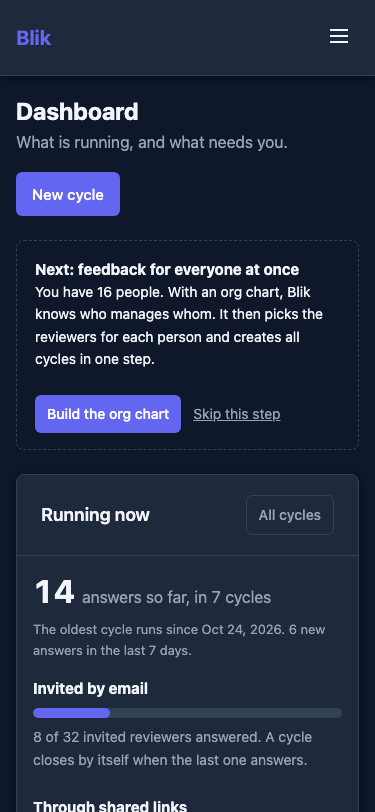
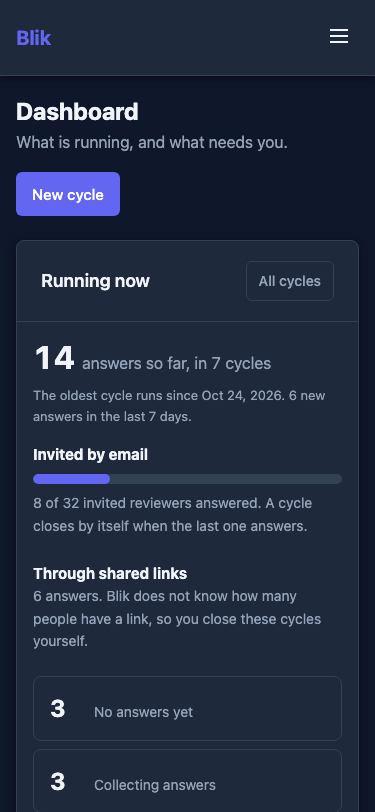
Take the dashboard screenshots without the org chart offer
The screenshots showed the block that offers to build an org chart. They are
taken again after "Skip this step". On a phone the three stages of the running
cycles are rows now, with the number next to its label: three columns were too
narrow for the labels.

Claude-Session: https://claude.ai/code/session_01HSsDGGKvbst5FpJbir5RUD

Changed region(s): [[0.088, 0.3079, 0.9093, 1.0]]

diff --git a/static/css/dashboard.css b/static/css/dashboard.css
@@ -128,3 +128,10 @@
     .dash-later { flex-direction: column; align-items: flex-start; }
     .dash-split .dash-links { margin-top: 0; }
 }
+
+/* On a phone the three stages are rows: number and label side by side. */
+@media (max-width: 600px) {
+    .dash-stages { grid-template-columns: minmax(0, 1fr); gap: 0.5rem; }
+    .dash-stage { display: flex; align-items: baseline; gap: 0.75rem; }
+    .dash-stage strong { display: inline; min-width: 2rem; }
+}
